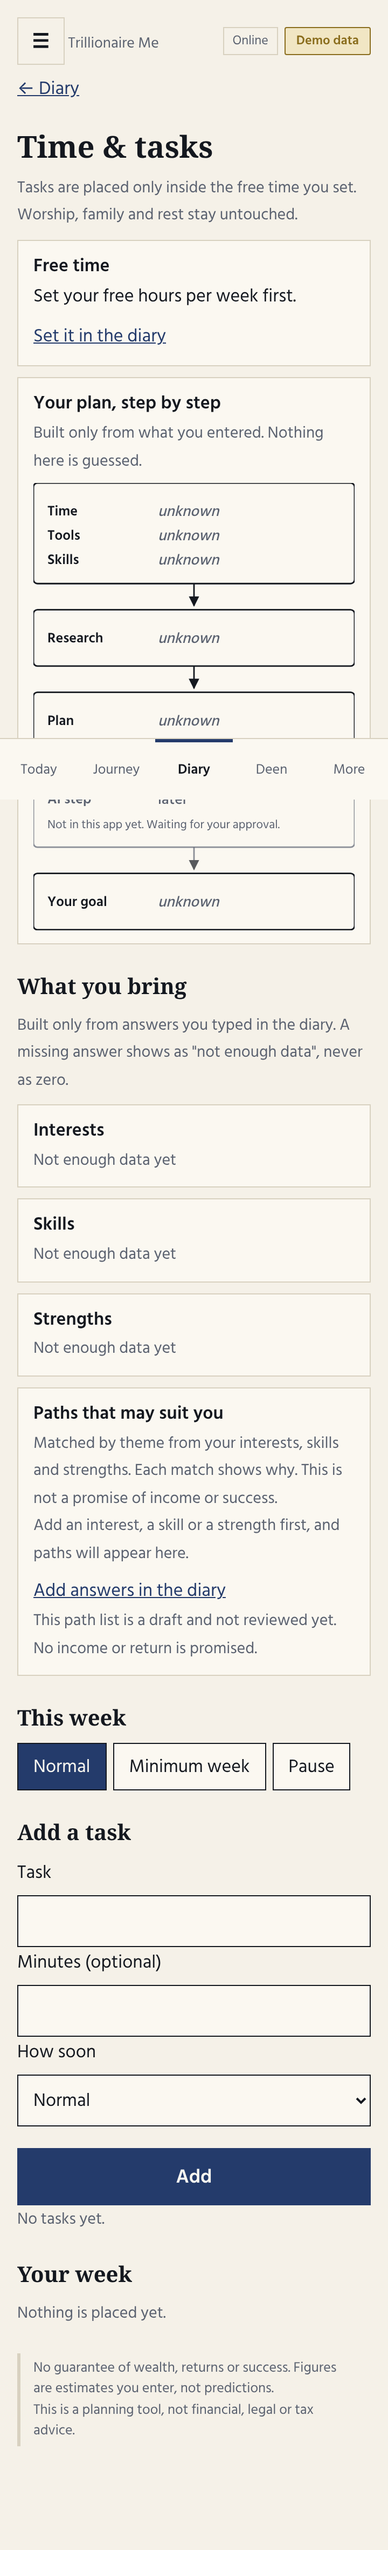
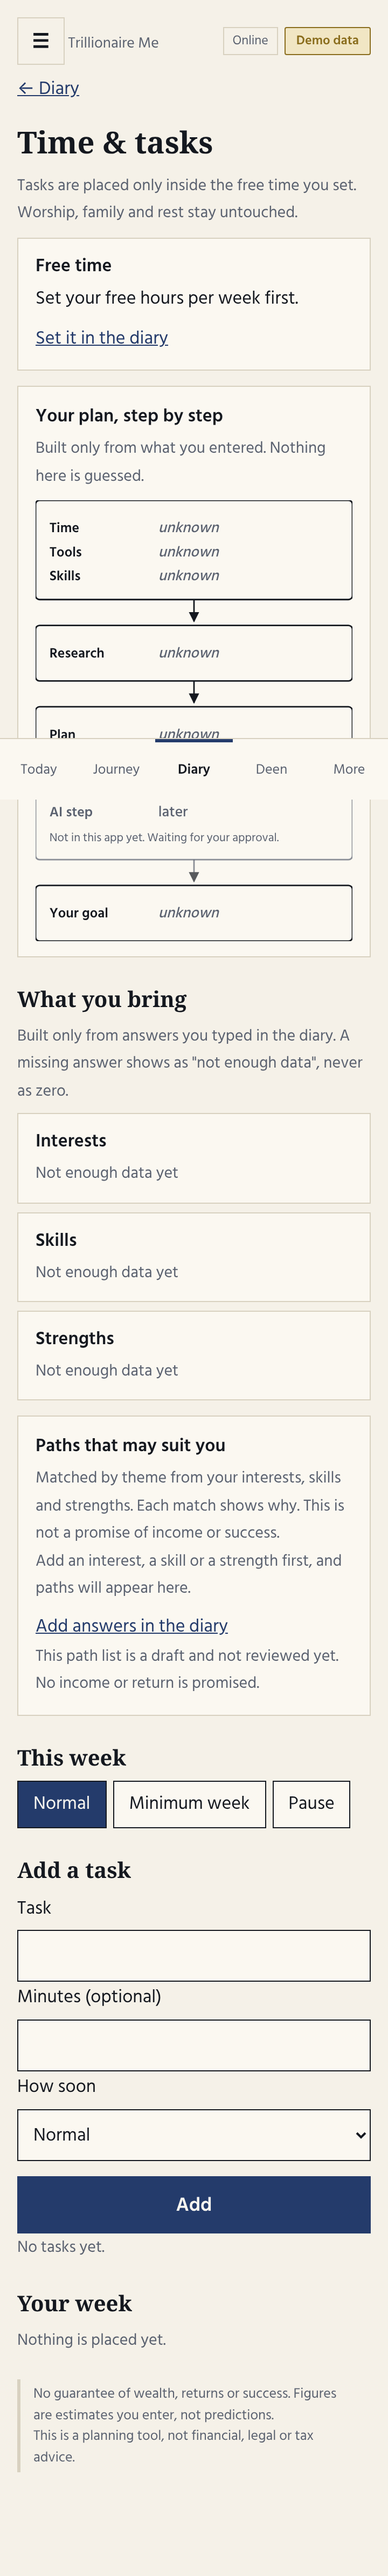
Polish Plan, Money, Deen and More visuals (Ink & Paper)
- Scoped screen classes; heading and card rhythm on all four screens
- Plan: flow card gets inner spacing, assessment and path cards grouped
- Money: summary cards and item rows read as figures and a list
- Deen: entity cards with divider above help rows
- More: menu cards with clear title/description; text-size buttons share one row
- Layout/CSS only; text and behaviour unchanged; colours via existing tokens

Claude-Session: https://claude.ai/code/session_01ECQLEnTuJEEpTPr8wz4yQ9

diff --git a/src/ui/screens.ts b/src/ui/screens.ts
@@ -212,7 +212,7 @@ export function planScreen(): HTMLElement {
   const byDay = (d: number) => cp.plan.placements.filter((p) => p.day === d).sort((a, b) => a.start - b.start);
   const week = [0, 1, 2, 3, 4, 5, 6].map((i) => (new Date().getDay() + i) % 7).filter((d) => byDay(d).length).map((d) => h("div", { class: "card", "data-day": String(d) }, h("h3", {}, weekday(d, lang)),
     ...byDay(d).map((p) => h("p", { "data-placement": p.taskId }, `${fmtClock(p.start)}–${fmtClock(p.end)} · ${cp.titles.get(p.taskId) ?? ""}`))));
-  return h("main", {},
+  return h("main", { class: "scr scr-plan" },
     link("#/diary", "crumb", `← ${t("diary.title", lang)}`),
     h("h1", {}, t("plan.title", lang)), h("p", { class: "sub" }, t("plan.intro", lang)),
     h("div", { class: "card", "data-capacity": cp.state }, h("h3", {}, t("plan.free", lang)), h("p", {}, free)),
@@ -274,7 +274,7 @@ export function moneyScreen(): HTMLElement {
       h("p", { class: "muted" }, a.state === "value" ? valueEl(t("money.bdt", lang, { v: new Intl.NumberFormat(intlLocale(lang)).format(Number(a.value)) }), "DEMO", lang) : t(`unknown.${a.state}` as Key, lang))),
       h("button", { class: "btn ghost", type: "button", style: "width:auto;margin:0;min-height:44px", onclick: () => { store.demo.delete(r.id); rerender(); } }, t("money.remove", lang))));
   });
-  return h("main", {},
+  return h("main", { class: "scr scr-money" },
     link("#/diary", "crumb", `← ${t("diary.title", lang)}`), h("h1", {}, t("money.title", lang)), h("p", { class: "sub" }, t("money.intro", lang)),
     h("h2", {}, t("money.summary", lang)), sum("personal"), sum("business"),
     fv.notMonthly ? h("p", { class: "muted" }, t("money.notMonthly", lang, { n: num(fv.notMonthly, lang) })) : null,
@@ -930,7 +930,7 @@ export function intake(stepParam: string | undefined): HTMLElement {
 export function deen(): HTMLElement {
   const lang = L();
   const ents = ENTITIES.filter((e) => e.module === "M13");
-  return h("main", {},
+  return h("main", { class: "scr scr-deen" },
     h("h1", {}, t("deen.title", lang)),
     h("p", { class: "sub" }, t("deen.intro", lang)),
     h("p", { class: "muted" }, t("deen.control", lang)),
@@ -949,7 +949,7 @@ export function more(): HTMLElement {
   const lang = L();
   const seg = (label: string, active: boolean, on: () => void) => h("button", { type: "button", "aria-pressed": String(active), onclick: on }, label);
   const items: Array<[string, Key, Key]> = [["#/topics", "topics.title", "topics.intro"], ["#/more/status", "more.status", "more.status.desc"], ["#/more/fields", "more.fields", "more.fields.desc"], ["#/more/glossary", "more.glossary", "more.glossary.desc"], ["#/more/safety", "more.safety", "more.safety.desc"], ["#/more/data", "more.data", "more.data.desc"]];
-  return h("main", {},
+  return h("main", { class: "scr scr-more" },
     h("h1", {}, t("more.title", lang)),
     ...items.map(([href, k, d]) => link(href, "card link", h("h3", {}, t(k, lang)), h("p", { class: "muted" }, t(d, lang)))),
     h("h2", {}, t("more.display", lang)),

diff --git a/src/ui/styles.css b/src/ui/styles.css
@@ -166,3 +166,48 @@ dl{margin:6px 0} .hrow{display:grid;grid-template-columns:96px 1fr;gap:8px;paddi
 .reward svg{border-bottom:1px solid var(--rule)}
 .reward+p{margin:0 4px}
 .scr-journey .actions{margin-bottom:8px}
+
+/* Visual polish pass 2 (Plan, Money, Deen, More). Rhythm, headings and card grouping only; colours come from the tokens above. */
+.scr-plan h1,.scr-money h1,.scr-deen h1,.scr-more h1{margin-top:18px;margin-bottom:6px}
+.scr-plan h2,.scr-money h2,.scr-deen h2,.scr-more h2{margin:26px 0 6px}
+.scr-plan .sub,.scr-money .sub,.scr-deen .sub{margin-bottom:4px}
+.scr-plan .card,.scr-money .card,.scr-deen .card,.scr-more .card{padding:14px 16px}
+.scr-plan .card h3,.scr-money .card h3,.scr-deen .card h3,.scr-more .card h3{margin-bottom:4px}
+/* Plan: flow and assessment cards get their own inner rhythm */
+.scr-plan [data-flow-card]{padding:16px 16px 14px;margin:14px 0 12px}
+.scr-plan [data-flow-card] .flow{margin:10px auto 0}
+.scr-plan [data-flow-card] .muted{margin-bottom:4px}
+.scr-plan section[data-assessment] .card{margin:8px 0}
+.scr-plan section[data-assessment] .card[data-fit-card]{margin-top:14px;padding:16px}
+.scr-plan section[data-assessment] .card[data-path]{margin:10px 0 0;background:var(--paper)}
+.scr-plan section[data-assessment] .card[data-path] p{margin-top:4px}
+.scr-plan .seg{margin-bottom:6px}
+.scr-plan form .field,.scr-plan form>label{margin-top:12px}
+.scr-plan form .btn{margin-top:14px}
+/* Money: summary cards read as figures, items as a list */
+.scr-money [data-scope]{padding:16px 16px 14px;margin:8px 0}
+.scr-money [data-scope] h3{margin-bottom:6px}
+.scr-money [data-scope] p{margin:4px 0;line-height:1.5}
+.scr-money [data-fin]{margin:8px 0}
+.scr-money [data-fin] .row{align-items:center}
+.scr-money [data-fin] button{flex:none}
+.scr-money form>label{margin-top:12px}
+.scr-money form .btn{margin-top:14px}
+/* Deen: one private group per card, help links tucked under the description */
+.scr-deen [data-entity]{padding:16px 16px 12px;margin:12px 0}
+.scr-deen [data-entity] .row{align-items:center;margin-bottom:4px}
+.scr-deen [data-entity] .row .tag{margin-top:0}
+.scr-deen [data-entity] p.muted{margin-bottom:6px}
+.scr-deen [data-entity] details.help{margin-top:2px;padding-top:6px;border-top:1px solid var(--rule)}
+.scr-deen [data-entity] details.help:last-of-type{margin-bottom:0}
+.scr-deen [data-entity] details.help summary{min-height:40px;display:flex;align-items:center}
+.scr-deen .card[data-module]{margin:12px 0}
+/* More: menu cards with clear title/description, settings grouped */
+.scr-more .card.link{padding:14px 16px;margin:10px 0}
+.scr-more .card.link h3{margin-bottom:2px}
+.scr-more .card.link p{line-height:1.5}
+.scr-more .card:not(.link){margin:10px 0}
+.scr-more .card:not(.link) .seg{margin-top:8px}
+.scr-more .seg{gap:8px}
+.scr-more .seg button{flex:1 1 0;min-width:0;padding-inline:8px}
+.scr-more .card .tags{margin-top:8px}
